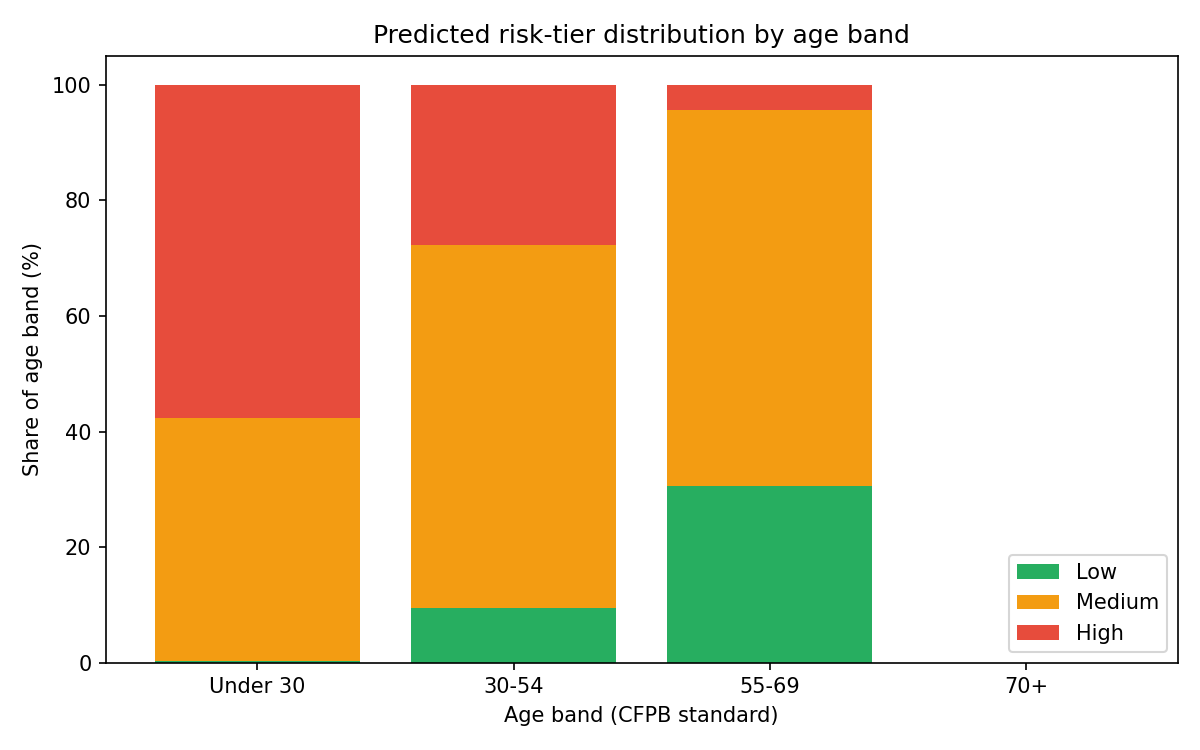
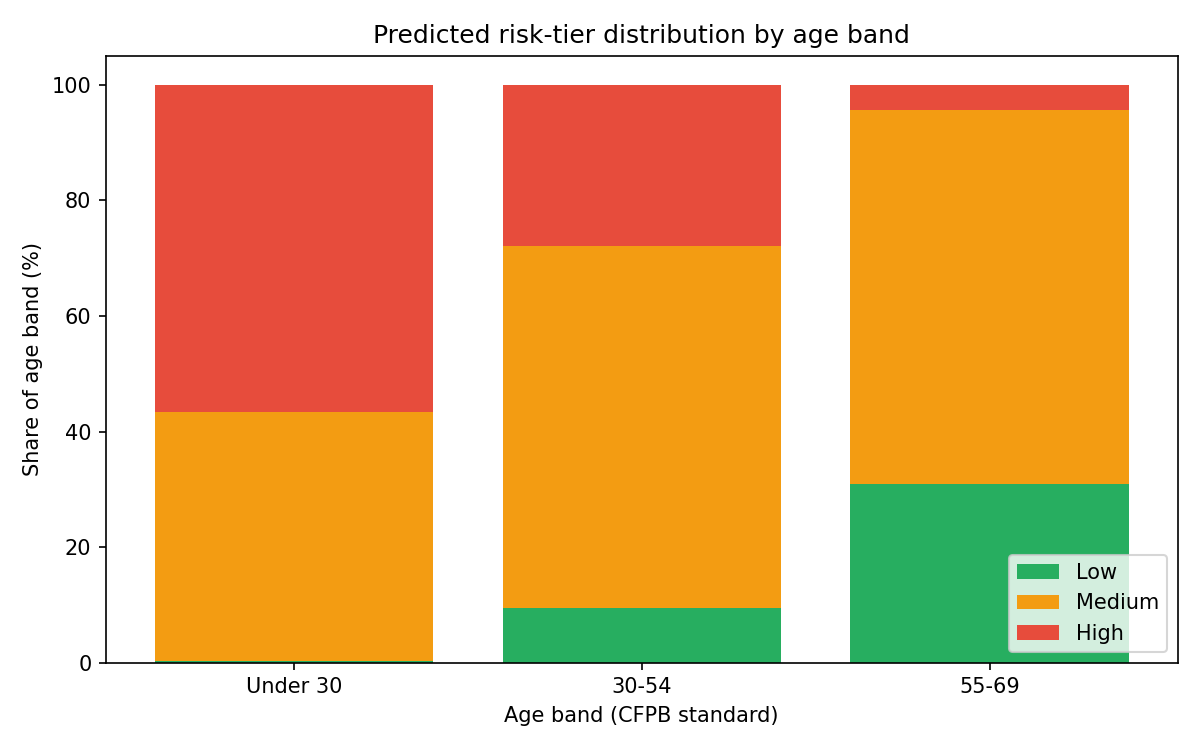
fix: remove 70+ bar from bias audit chart, update percentages
70+ age band has 0 profiles in the dataset — it should not appear
on the chart. Filtered empty bands before plotting. Regenerated
chart and updated app.py bias table to match latest findings.

diff --git a/app.py b/app.py
@@ -664,9 +664,9 @@ with st.expander("Responsible AI — Model Card & Bias Audit"):
     bias_df = pd.DataFrame({
         "Age band": ["Under 30", "30–54", "55–69", "70+"],
         "Profiles": ["343", "1,093", "564", "0"],
-        "Low": ["0.3%", "9.5%", "30.5%", "—"],
-        "Medium": ["42.0%", "62.8%", "65.1%", "—"],
-        "High": ["57.7%", "27.7%", "4.4%", "—"],
+        "Low": ["0.3%", "9.4%", "30.9%", "—"],
+        "Medium": ["43.1%", "62.8%", "64.7%", "—"],
+        "High": ["56.6%", "27.8%", "4.4%", "—"],
     })
     st.dataframe(bias_df, use_container_width=True, hide_index=True)
     st.caption("Tier distribution by CFPB age band. Younger profiles skew High (longer horizons); older profiles skew Low. Pattern reflects source labels, not unjust bias.")

diff --git a/layer4_respai/bias_audit.py b/layer4_respai/bias_audit.py
@@ -74,6 +74,10 @@ def run_bias_audit() -> None:
     # Sample sizes
     band_counts = df["age_band"].value_counts().reindex(band_order, fill_value=0)
 
+    # Drop age bands with zero profiles so they don't appear on the chart
+    nonempty = band_counts[band_counts > 0].index
+    ct = ct.loc[ct.index.isin(nonempty)]
+
     # Plot stacked bar chart
     colors = {"Low": "#27ae60", "Medium": "#f39c12", "High": "#e74c3c"}
     fig, ax = plt.subplots(figsize=(8, 5))